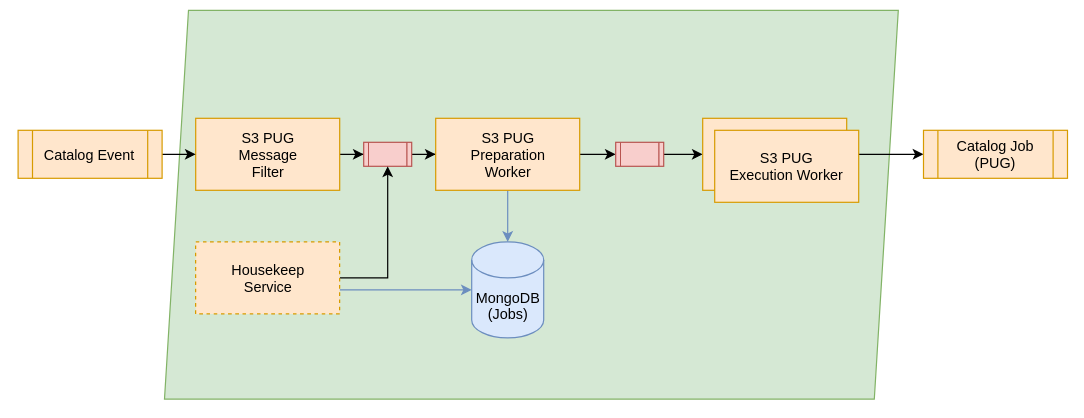
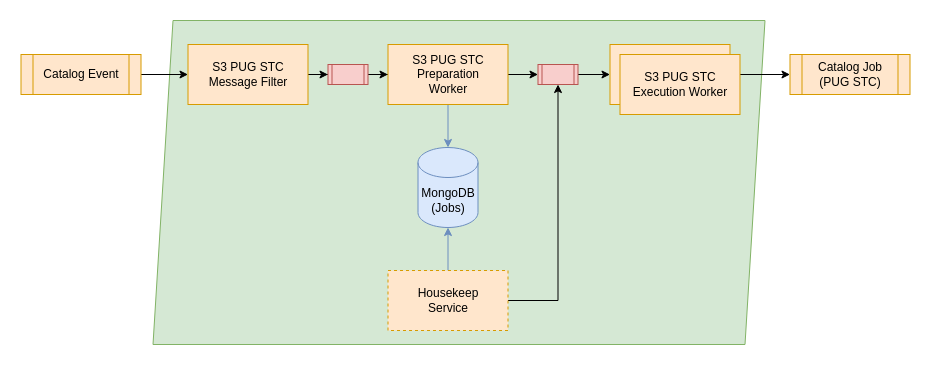
RS-XX: Update overviews of all STC chains

diff --git a/s3-sy2-stc/doc/ReleaseNote.md b/s3-sy2-stc/doc/ReleaseNote.md
@@ -14,6 +14,8 @@ This add-on contains the configuration for the processing chain of the Sentinel-
 
 ## Overview
 
+![overview](./media/overview.png "Overview")
+
 The chain will start from the topic catalog event and watching out for new products there. The message filter will ensure that just suitable products for this chain and related auxiliary files are consumed by the chain. All other product types will be discard and no processing occurs. 
 
 If the production is not ready yet the request will be persisted and discarded. Once a new relevant product for the chain arrives, it will check again if all required input products are available.

diff --git a/s3-sy2-vgs-stc/doc/ReleaseNote.md b/s3-sy2-vgs-stc/doc/ReleaseNote.md
@@ -14,6 +14,8 @@ This add-on contains the configuration for the processing chain of the Sentinel-
 
 ## Overview
 
+![overview](./media/overview.png "Overview")
+
 The chain will start from the topic catalog event and watching out for new products there. The message filter will ensure that just suitable products for this chain and related auxiliary files are consumed by the chain. All other product types will be discard and no processing occurs. 
 
 If the production is not ready yet the request will be persisted and discarded. Once a new relevant product for the chain arrives, it will check again if all required input products are available.
